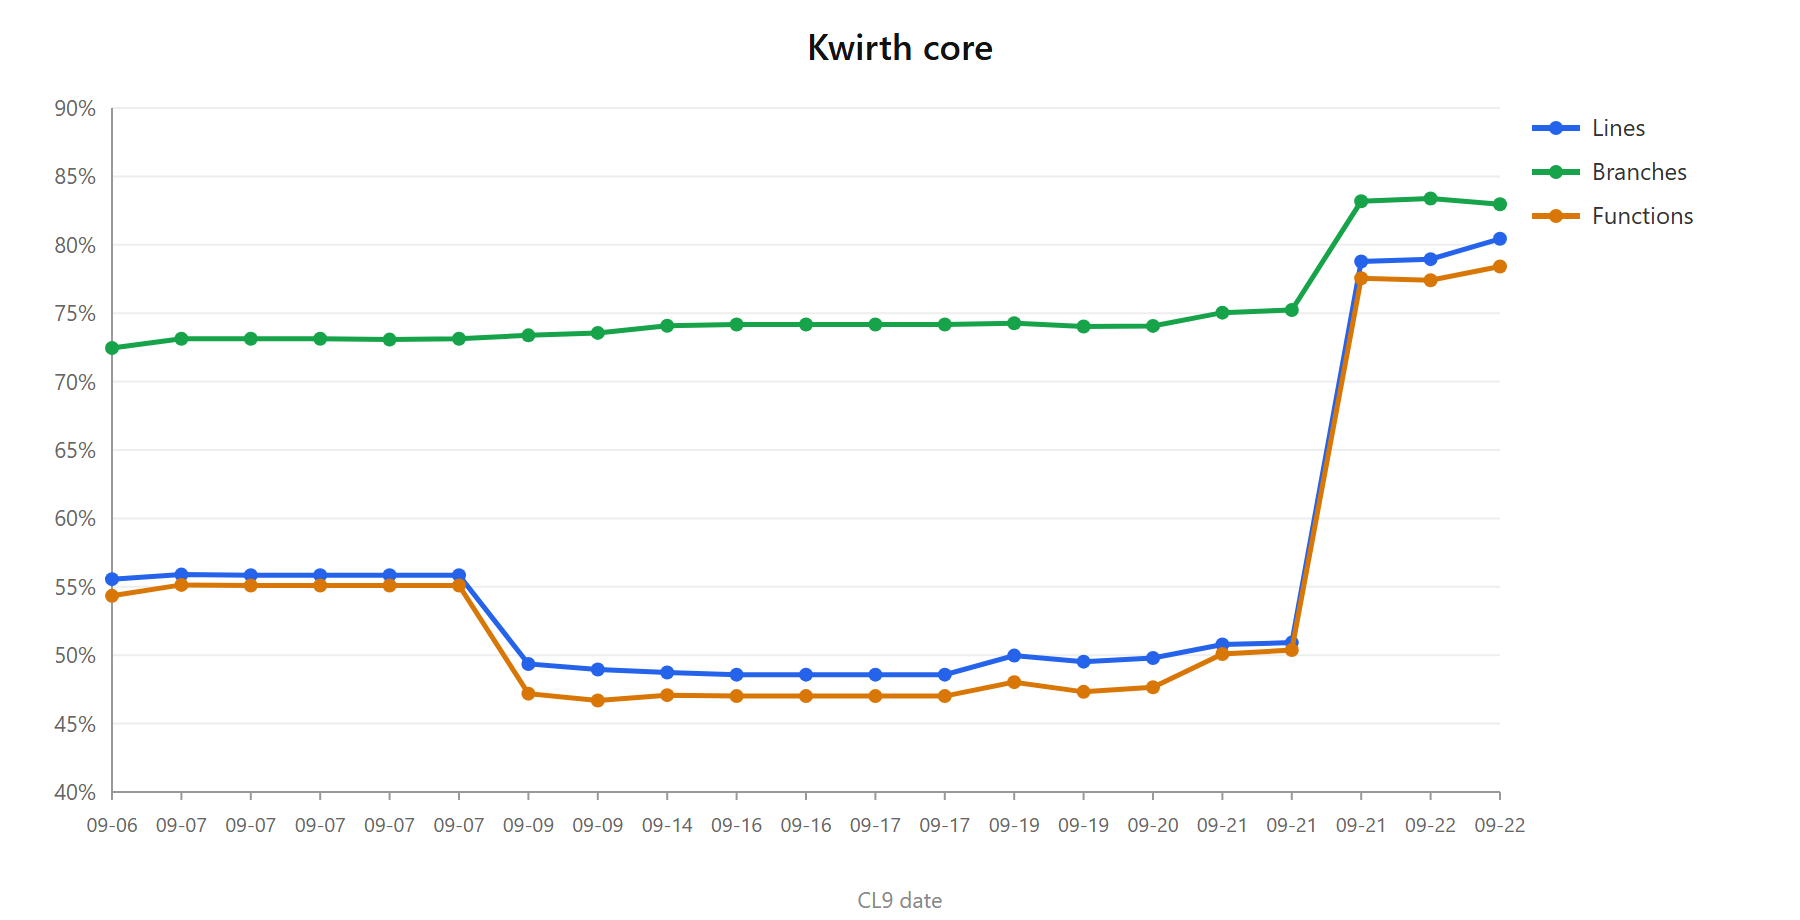
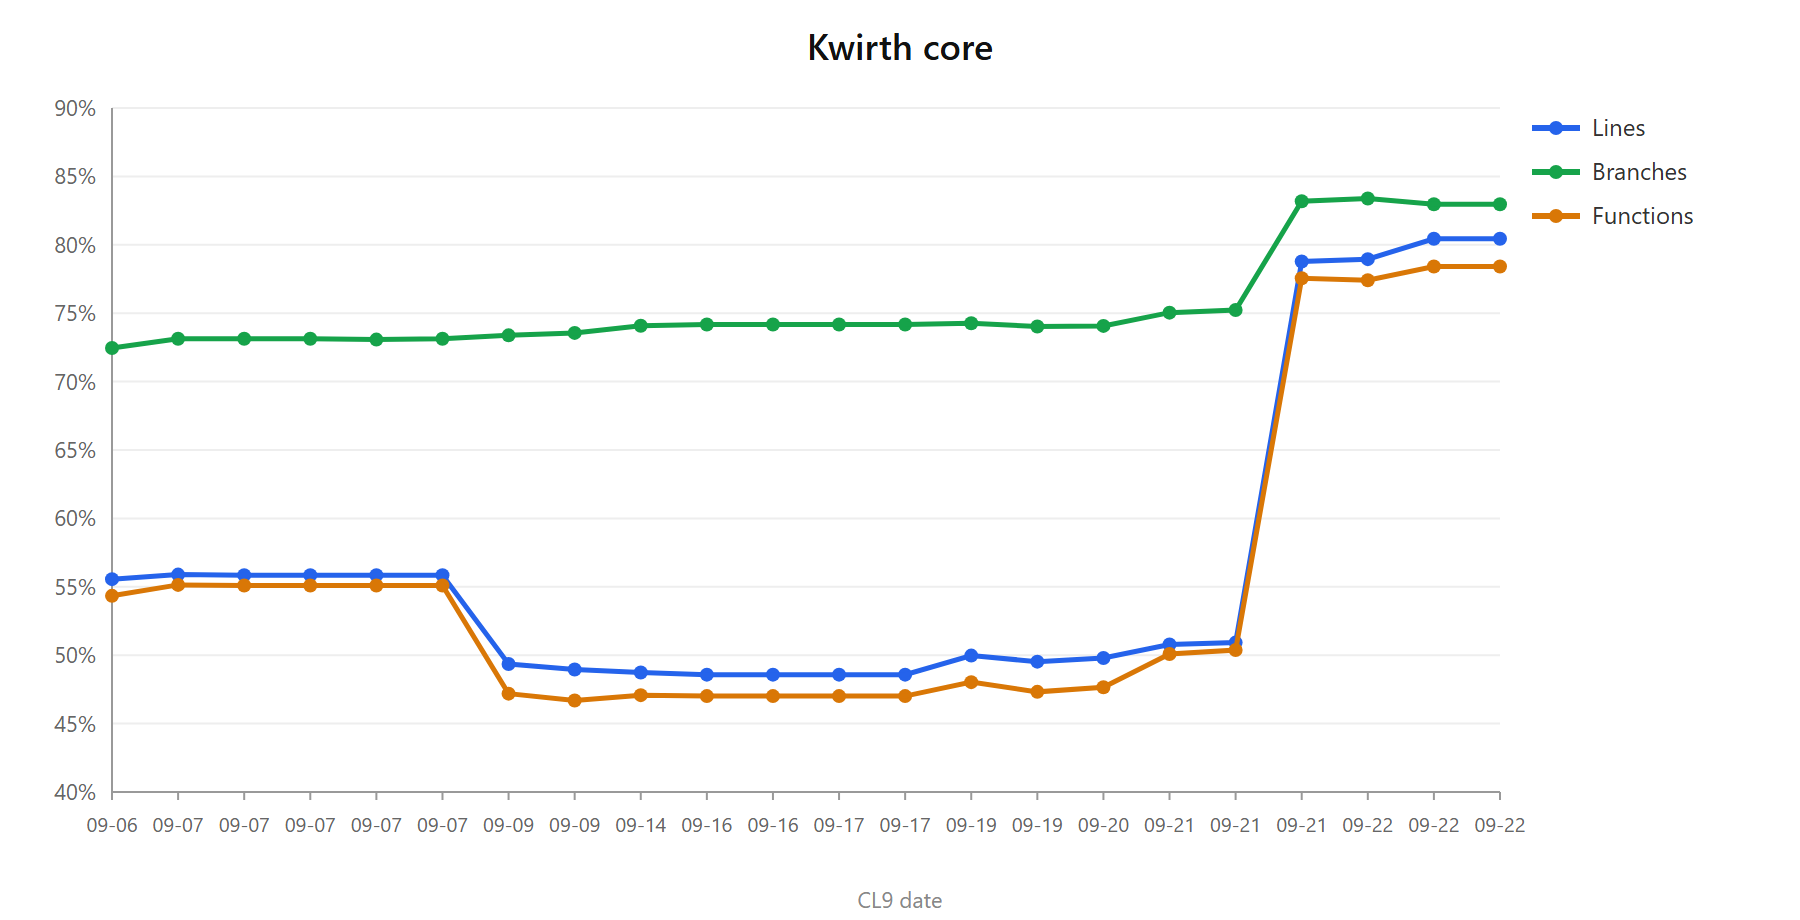
feat(senders): entrega por LOTES, y el origen dentro del mensaje
Primer stream de la cadena Fluent Bit -> kwirth -> destino (PRD y PLAN en el privado).

`send` entrega un mensaje por llamada con su propio await: perfecto para un aviso, inviable para un
caudal de log —un round trip por linea— cuando los destinos que se comen volumen aceptan arrays y
COBRAN POR PETICION.

  · sendBatch?() OPCIONAL en ISenderAccess (kwirth-common 0.5.54) y en ISender
    (kwirth-common-back 0.5.48), con un await por LOTE: la promesa sigue significando "estas N
    lineas entregadas".
  · SenderManager.sendBatch() lo reparte: una llamada a quien lo implemente, y entrega de UNO EN UNO
    a quien no. Esa compatibilidad es lo que permite que el contrato sea opcional sin romper a
    ningun sender existente.

Y el ORIGEN viaja en el mensaje: ISenderMessageOrigin (cluster, namespace, pod, container, source,
service, timestamp) como campo propio, no dentro de 'metadata' —que es JSON libre y cuyo acuerdo
tacito se rompe en cuanto hay dos senders—. Un destino solo puede etiquetar lo que le llega
etiquetado: una linea que llega a Datadog sin su namespace no se puede filtrar por nada.

+8 tests: el lote llega entero en una llamada, el orden se respeta en el camino de compatibilidad,
el origen llega intacto, un fallo NO sube al llamante (el reenvio no puede tumbar a quien produce
el log) y una linea que falla no cancela las siguientes. 426 en total.

Sin e2e a proposito: es contrato sin consumidor —nadie llama a sendBatch hasta el S3— y no tiene UI.

diff --git a/back/tests/tools/senderBatch.test.ts b/back/tests/tools/senderBatch.test.ts
@@ -1,0 +1,157 @@
+import { test } from 'node:test'
+import assert from 'node:assert/strict'
+import { SenderManager } from '../../src/tools/SenderManager'
+import { IConfigMaps } from '../../src/tools/IConfigMap'
+import { ISender, ISenderMessage } from '@kwirthmagnify/kwirth-common-back'
+
+/*
+    Entrega por LOTES.
+
+    `send` es un mensaje por llamada con su propio await, y eso sirve para un aviso —"se ha caido un
+    pod"— pero no para un caudal de log: un await por linea convierte el reenvio en una fila de idas y
+    venidas a la red, y las APIs de los destinos (Datadog, Elastic, Loki) aceptan arrays y cobran por
+    peticion.
+
+    Lo que fijan estos tests es el contrato que hace que eso sea posible SIN romper a nadie:
+
+      · quien implementa `sendBatch` recibe el lote entero en UNA llamada;
+      · quien NO lo implementa sigue recibiendo mensajes de uno en uno, en orden;
+      · y un fallo no se lleva por delante lo que queda ni sube al llamante como excepcion — el reenvio
+        de log no puede tumbar al que lo produce.
+*/
+
+const memConfigMaps = (): IConfigMaps => ({
+    read: (async (_name: string, def?: unknown) => def) as IConfigMaps['read'],
+    write: (async () => {}) as IConfigMaps['write'],
+    writeKey: async () => {},
+    readAllKeys: async () => ({})
+})
+
+interface IFakeSenderOptions {
+    // implementa sendBatch (el caso bueno) o solo send (el caso de compatibilidad)
+    batch?: boolean
+    // el nombre de config que dice tener
+    config?: string
+    throwOnBatch?: boolean
+    // falla al enviar este cuerpo concreto, para probar que no corta el resto
+    throwOnBody?: string
+}
+
+interface IFakeSender {
+    sender: ISender
+    batches: ISenderMessage[][]
+    singles: ISenderMessage[]
+}
+
+const fakeSender = (id: string, options: IFakeSenderOptions = {}): IFakeSender => {
+    const batches: ISenderMessage[][] = []
+    const singles: ISenderMessage[] = []
+    const configName = options.config ?? 'default'
+    const sender: Record<string, unknown> = {
+        id,
+        addConfig: () => {},
+        removeConfig: () => {},
+        hasConfig: (name: string) => name === configName,
+        getConfigNames: () => [configName],
+        startSender: async () => {},
+        stopSender: async () => {},
+        send: async (_c: string, message: ISenderMessage) => {
+            if (options.throwOnBody !== undefined && message.body === options.throwOnBody) throw new Error('boom single')
+            singles.push(message)
+        }
+    }
+    if (options.batch) {
+        sender.sendBatch = async (_c: string, messages: ISenderMessage[]) => {
+            if (options.throwOnBatch) throw new Error('boom batch')
+            batches.push(messages)
+        }
+    }
+    return { sender: sender as unknown as ISender, batches, singles }
+}
+
+const withSender = async (fake: IFakeSender): Promise<SenderManager> => {
+    const manager = new SenderManager(memConfigMaps())
+    await manager.init()
+    // se inyecta en el registro de instancias, que es de donde sale getSender()
+    ;(manager as unknown as { instances: Map<string, ISender> }).instances.set(fake.sender.id, fake.sender)
+    return manager
+}
+
+const linea = (body: string): ISenderMessage => ({ body })
+
+test('quien implementa sendBatch recibe el lote ENTERO en una sola llamada', async () => {
+    const fake = fakeSender('datadog', { batch: true })
+    const manager = await withSender(fake)
+
+    await manager.sendBatch('datadog', 'default', [linea('a'), linea('b'), linea('c')])
+
+    assert.equal(fake.batches.length, 1, 'una llamada, no tres')
+    assert.deepEqual(fake.batches[0].map(m => m.body), ['a', 'b', 'c'])
+    assert.equal(fake.singles.length, 0, 'y no se usa el camino de uno en uno')
+})
+
+test('quien NO lo implementa sigue recibiendo mensajes de uno en uno, en orden', async () => {
+    const fake = fakeSender('console', { batch: false })
+    const manager = await withSender(fake)
+
+    await manager.sendBatch('console', 'default', [linea('a'), linea('b')])
+
+    assert.deepEqual(fake.singles.map(m => m.body), ['a', 'b'], 'el orden es parte del contrato de un log')
+})
+
+test('un lote vacio no llama a nada', async () => {
+    const fake = fakeSender('datadog', { batch: true })
+    const manager = await withSender(fake)
+
+    await manager.sendBatch('datadog', 'default', [])
+
+    assert.equal(fake.batches.length, 0)
+    assert.equal(fake.singles.length, 0)
+})
+
+test('el origen de cada linea llega intacto al sender: sin el, el destino no puede etiquetar', async () => {
+    const fake = fakeSender('datadog', { batch: true })
+    const manager = await withSender(fake)
+
+    await manager.sendBatch('datadog', 'default', [{
+        body: 'connection refused',
+        origin: { cluster: 'k3d', namespace: 'ns-a', pod: 'pod-a', container: 'c1', source: 'fluentbit' }
+    }])
+
+    assert.deepEqual(fake.batches[0][0].origin, {
+        cluster: 'k3d', namespace: 'ns-a', pod: 'pod-a', container: 'c1', source: 'fluentbit'
+    })
+})
+
+test('si el sender revienta con el lote, no sube al llamante', async () => {
+    const fake = fakeSender('datadog', { batch: true, throwOnBatch: true })
+    const manager = await withSender(fake)
+
+    // el reenvio de log no puede tumbar a quien lo produce
+    await assert.doesNotReject(() => manager.sendBatch('datadog', 'default', [linea('a')]))
+})
+
+test('en el camino de uno en uno, una linea que falla no cancela las siguientes', async () => {
+    const fake = fakeSender('console', { batch: false, throwOnBody: 'b' })
+    const manager = await withSender(fake)
+
+    await manager.sendBatch('console', 'default', [linea('a'), linea('b'), linea('c')])
+
+    assert.deepEqual(fake.singles.map(m => m.body), ['a', 'c'], 'se entrega lo que se puede')
+})
+
+test('un sender que no existe descarta el lote sin lanzar', async () => {
+    const manager = new SenderManager(memConfigMaps())
+    await manager.init()
+
+    await assert.doesNotReject(() => manager.sendBatch('no-existe', 'default', [linea('a')]))
+})
+
+test('una config que el sender no tiene descarta el lote sin lanzar', async () => {
+    const fake = fakeSender('datadog', { batch: true, config: 'prod' })
+    const manager = await withSender(fake)
+
+    await manager.sendBatch('datadog', 'la-que-no-es', [linea('a')])
+
+    assert.equal(fake.batches.length, 0)
+})

diff --git a/common/src/Sender.ts b/common/src/Sender.ts
@@ -1,9 +1,37 @@
+/*
+    De DONDE viene una linea. Viaja en el mensaje, y no lo inventa el sender: un destino solo puede
+    etiquetar lo que le llega etiquetado. Si esto se pierde por el camino, el log acaba en el destino sin
+    poder filtrarse por nada — es decir, inutil.
+
+    Todo opcional porque no todo mensaje viene de un pod: un aviso de un canal, un evento de negocio o una
+    linea que entra por un recolector externo tienen orígenes distintos, y cada uno rellena lo que sabe.
+*/
+export interface ISenderMessageOrigin {
+    /** cluster del que salio, cuando hay mas de uno en juego */
+    cluster?: string
+    namespace?: string
+    pod?: string
+    container?: string
+    /** por donde ENTRO en Kwirth: el id del provider o del canal (p.ej. 'fluentbit', 'log') */
+    source?: string
+    /** nombre del servicio o del controlador, cuando se conoce */
+    service?: string
+    /** marca de tiempo original de la linea, si la traia; en ms desde epoch */
+    timestamp?: number
+}
+
 export interface ISenderMessage {
     subject?: string
     body: string
     to?: string | string[]
     level?: 'debug' | 'info' | 'warning' | 'error'
     metadata?: Record<string, unknown>
+    /*
+        Origen de la linea. Se añade aparte de 'metadata' —que es JSON libre— porque esto SI es contrato:
+        el destino necesita saber donde mirar para etiquetar, y un acuerdo tacito dentro de metadata se
+        rompe en cuanto haya dos senders.
+    */
+    origin?: ISenderMessageOrigin
 }
 
 export interface ISenderConfig {
@@ -25,6 +53,16 @@ export interface ISenderResult {
 
 export interface ISenderAccess {
     send(senderId: string, configName: string, message: ISenderMessage): Promise<ISenderResult | void>
+    /*
+        Entrega un LOTE. Existe porque 'send' es un mensaje por llamada con su propio await, y eso sirve
+        para un aviso y no para un caudal de log: un await por linea convierte el reenvio en una fila de
+        idas y venidas a la red.
+
+        Un await por LOTE mantiene el significado de la promesa —"estas N lineas entregadas"— que es lo que
+        permite al llamante contar lo enviado y reaccionar a lo que falle. Si el sender no lo implementa,
+        el core lo entrega mensaje a mensaje: nadie tiene que cambiar para seguir funcionando.
+    */
+    sendBatch?(senderId: string, configName: string, messages: ISenderMessage[]): Promise<ISenderResult | void>
     // OPCIONAL: consulta el estado actual de una entidad externa creada por el sender (p.ej. un ticket de
     // ticketing → su status). Contraparte de pull del webhook (push): permite RECONCILIAR estados perdidos
     // (core caído / sin suscriptor cuando llegó el callback). Devuelve undefined si el sender no lo soporta,

diff --git a/back/src/tools/SenderManager.ts b/back/src/tools/SenderManager.ts
@@ -586,6 +586,42 @@ export class SenderManager implements ISenderAccess {
         }
     }
 
+    /*
+        Entrega un LOTE por una sola llamada al sender.
+
+        Un `send` por linea convierte el reenvio de log en una fila de idas y venidas a la red, y las APIs
+        de los destinos (Datadog, Elastic, Loki) aceptan arrays y cobran por peticion. Con el lote, el
+        `await` sigue significando "estas N lineas entregadas", que es lo que permite al llamante contar lo
+        enviado.
+
+        ⚠ Si el sender NO implementa sendBatch se entrega mensaje a mensaje, en orden. Es mas lento pero
+        correcto, y es lo que permite que el contrato sea opcional: ningun sender existente se rompe.
+    */
+    async sendBatch(senderId: string, configName: string, messages: ISenderMessage[]): Promise<ISenderResult | void> {
+        if (messages.length === 0) return
+        const sender = this.getSender(senderId)
+        if (!sender) {
+            logError(ELogComponent.CORE, `Sender '${senderId}' not found — ${messages.length} message(s) dropped`)
+            return
+        }
+        if (!sender.hasConfig(configName)) {
+            logError(ELogComponent.CORE, `Sender '${senderId}' has no config '${configName}' — ${messages.length} message(s) dropped`)
+            return
+        }
+        try {
+            if (typeof sender.sendBatch === 'function') return await sender.sendBatch(configName, messages)
+            // Sin soporte de lote: uno a uno, y el primer fallo NO cancela el resto — cada linea se
+            // entrega por su cuenta, igual que si el llamante hubiera hecho N sends.
+            for (const message of messages) {
+                try { await sender.send(configName, message) }
+                catch (err) { logError(ELogComponent.CORE, `Sender '${senderId}' send error (within batch): ${err}`) }
+            }
+        }
+        catch (err) {
+            logError(ELogComponent.CORE, `Sender '${senderId}' sendBatch error: ${err}`)
+        }
+    }
+
     // H3b-recon: consulta el estado actual de una entidad externa (p.ej. un ticket) vía el sender. Undefined si
     // el sender no lo soporta, no existe, no tiene la config, o falla. Contraparte de pull del webhook (push).
     async fetchStatus(senderId: string, configName: string, externalId: string): Promise<string | undefined> {

diff --git a/common-back/src/ISender.ts b/common-back/src/ISender.ts
@@ -22,6 +22,13 @@ export interface ISender extends IExtension {
     getConfigSchema?(): ISenderFieldDef[]
     getNodeMeta?(): ISenderNodeMeta
     send(configName: string, message: ISenderMessage): Promise<ISenderResult | void>
+    /*
+        OPCIONAL: entrega un LOTE de una vez. Para un destino de log (Datadog, Elastic, Loki) mandar linea
+        a linea es inviable: sus APIs aceptan arrays y cobran por peticion. Quien lo implemente recibe el
+        lote entero y decide como partirlo; quien no, sigue recibiendo mensajes de uno en uno y no se
+        entera de que esto existe.
+    */
+    sendBatch?(configName: string, messages: ISenderMessage[]): Promise<ISenderResult | void>
     // OPCIONAL (H3b-recon): consulta el estado actual de una entidad externa creada por este sender (p.ej. un
     // ticket → su status). Permite reconciliar estados perdidos. Undefined si no aplica / no se pudo resolver.
     fetchStatus?(configName: string, externalId: string): Promise<string | undefined>

diff --git a/docs/qa/test-metrics-history.md b/docs/qa/test-metrics-history.md
@@ -38,6 +38,7 @@
 
 | Fecha | Cierre | Harness | Cobertura (líneas / ramas / funcs) | e2e | Notas |
 |---|---|---|---|---|---|
+| 2026-09-22 | Entrega por LOTES y el origen dentro del mensaje (S1 del reenvío de log) | **426** ✅ | 80.44 % / 82.96 % / 78.41 % | 37 specs · 121 casos | Primer stream de la cadena Fluent Bit → kwirth → destino. `send` entrega **un mensaje por llamada** con su propio `await`: perfecto para un aviso, inviable para un caudal de log —un round trip por línea— cuando los destinos que se comen volumen aceptan arrays y **cobran por petición**. Se añade `sendBatch?()` **opcional** en `ISenderAccess` (`kwirth-common@0.5.54`) y en `ISender` (`kwirth-common-back@0.5.48`), con un `await` por **lote**, y `SenderManager.sendBatch()` lo reparte: una llamada a quien lo implemente, **entrega de uno en uno a quien no** — esa compatibilidad es lo que hace que el contrato pueda ser opcional sin romper a ningún sender existente. Y el **origen viaja en el mensaje**: `ISenderMessageOrigin` (cluster, namespace, pod, container, source, service, timestamp) como **campo propio**, no dentro de `metadata`, que es JSON libre — un acuerdo tácito ahí se rompe en cuanto hay dos senders, y un destino solo puede etiquetar lo que le llega etiquetado. **+8 tests**: el lote llega entero en una llamada, el orden se respeta en el camino de compatibilidad, el origen llega intacto, un fallo **no sube al llamante** (el reenvío no puede tumbar a quien produce el log) y una línea que falla no cancela las siguientes. ℹ Sin e2e: es contrato sin consumidor todavía —nadie llama a `sendBatch` hasta el S3— y no tiene UI; su QA fue de no regresión de los senders vivos. ⚠ Lección de secuencia: se publicaron los contratos y se siguió tocando el core mientras npm propagaba, dejando el back del usuario sin compilar. Publicar, **esperar a poder instalar**, y entonces tocar el core. |
 | 2026-09-22 | Una extensión montada desde dev salía DUPLICADA en tres managers | **426** ✅ | 80.44 % / 82.96 % / 78.41 % | 37 specs · 122 casos | **`listInstalled()` concatenaba el índice de instalados con los metadatos de dev sin filtrar los que se pisan.** Una extensión registrada en `kwirth-dev.json` **sustituye** a la instalada con su mismo id, no se suma a ella — y en un entorno de desarrollo, donde lo normal es tenerla instalada Y además montada desde su `dist`, la misma salía **dos veces**. El duplicado viajaba tal cual por `/core/senders`, `/core/providers` y `/core/webhooks` a todos sus consumidores: los gestores del front y cualquier extensión que liste. `plugin`, `theme`, `login`, `homepage` y `aitoolset` ya llevaban el filtro; **sender, provider y webhook se habían quedado atrás**, y ahora usan el mismo patrón. Lo cazó el **e2e del plugin sender-debug**, cuyo desplegable pintaba `console` repetido: el plugin se defendía deduplicando, pero el defecto estaba aquí. **+8 tests** que montan un workspace de dev de verdad (un `kwirth-dev.json` y un `dist` por extensión) y recorren el camino que hace el core al arrancar, en vez de falsear los mapas de dev a mano; se comprobó que **6 de los 8 se ponen rojos sin el arreglo**. **+1 caso e2e** en el gestor de senders, sobre la respuesta del endpoint y **no** sobre las tarjetas: el gestor pinta instalados *y* disponibles del marketplace, así que un sender publicado sale dos veces con toda la razón — contar tarjetas daba un rojo que no decía nada del bug. ⚠ El harness incluye 8 tests de `senderBatch.test.ts`, trabajo en curso sin commitear ajeno a este cierre. |
 | 2026-09-22 | Probar la configuración de una extensión desde el formulario, y campos de varios valores | **404** ✅ | 78.95 % / 83.38 % / 77.41 % | 37 specs · 121 casos | **Un usuario metía credenciales y no sabía si valían hasta que la extensión fallaba en silencio.** Excubitor lo resolvió a mano con su *Test connection* para los conectores cloud; ahora lo hace el core una vez para cualquier provider: el formulario genérico saca un botón **TEST** si el provider expone `/test` en su `configRouter`. La detección **no se declara**, se mira: `ProviderApi` inspecciona las rutas del router —el endpoint es la única fuente que no puede mentir— así que un provider que lo añada mañana hereda el botón sin tocar su `package.json` ni su build. Ya lo tienen dos: `azure` y `sugarless`. ⚠ El botón manda el **borrador** por POST y **no guarda**: probar lo que tienes escrito es lo útil, pero guardarlo por tu cuenta puede dejar la configuración peor de como estaba si el formulario se cargó a medias (una extensión que solo acepte GET prueba lo guardado, y entonces sí se avisa de los cambios pendientes). **Y campos de varios valores**: `multiselect` en `IConfigFieldDef` (`kwirth-common@0.5.53`), pintado como desplegable múltiple **con checkbox** — sin el check, un multiselect parece de selección única, y así se quedó en la primera pasada. El valor se guarda como una cadena con comas: el contrato no tiene tipo lista y dárselo obligaría a migrar los 64 campos ya publicados. `azure` lo usa para ofrecer las regiones reales de la suscripción. **+5 tests** de la detección (incluido que `/testing` o `/test/algo` no cuentan) y **+1 spec e2e** con 2 casos, que comprueba el botón y los checkbox sin pulsar TEST — probar de verdad sale a la red del proveedor. ℹ `kwirth-common@0.5.53` trae además `previousLogLines`, el ajuste del log del contenedor anterior: el tipo ya está, **consumirlo sigue pendiente** (S2 de su plan). |
 | 2026-09-21 | La cobertura del core estaba MAL MEDIDA (y dos managers sin un solo test) | **399** ✅ | 78.78 % / 83.18 % / 77.55 % | 34 specs · 109 casos | 🔴 **El 50 % que veníamos apuntando era un artefacto de medición.** El runner del back bundleaba **un fichero por test**, así que cada bundle arrastraba su **propia copia del `src`** y el informe los trataba como ficheros distintos: hacía la **media** de esas copias en vez de la **unión**, contando como no cubierto todo el `src` que ese test concreto no toca. Encima el desglose listaba `tests/.out/*.test.mjs`, no `src/`, que es la pista que lo delató. Con el entry único —el mismo arreglo que ya llevaban montag, agora y provider-debug— la misma suite, **sin un test nuevo**, pasa de 50.92 a **79.23 %**. El salto es de medición, no de trabajo. ⚠ El número incluye el código de los propios tests dentro del bundle, así que está algo por encima de la cobertura pura de `src/`; es el mismo criterio que usan los plugins, y por eso es comparable con ellos. **Y lo que sí es trabajo**: `ThemeManager` y `HomepageManager` no tenían **ningún** test —42 de los 83 ficheros del `src` siguen sin aparecer en ninguno— y ahora llevan **11**, que fijan lo que se aprendió a base de sustos: las dos formas de tgz (raíz y `package/`) instalan igual, un front que no cabe en el ConfigMap no se guarda ahí y se recupera del origen con caché, y esa caché se invalida al instalar y al desinstalar. De paso se alinearon con los otros cuatro managers: ya borraban al desinstalar, pero **no al instalar**, que es justo el caso de actualizar. ℹ El global baja de 79.23 a 78.78 porque esas ~490 líneas **entran ahora en el denominador**: antes no salían en el informe porque ningún test las importaba. Un test propio cazó un error mío: el front 'enorme' era texto periódico, gzip lo dejaba en nada y cabía en el ConfigMap; hay que generarlo incompresible (`randomBytes`). |

diff --git a/docs/0.6.31/guide/extensions/senders/index.md b/docs/0.6.31/guide/extensions/senders/index.md
@@ -25,6 +25,26 @@ These deliver a message to a real destination:
 | **[email-resend](email-resend)** | **Email** via the **Resend** API. | API key, from, to. |
 | **[teams](teams)** | A **Microsoft Teams** channel. | Incoming webhook URL. |
 
+## Delivering in batches
+
+A sender normally receives **one message per call**: kwirth awaits each delivery, and that is what makes
+the promise meaningful — *this alert reached its destination*. For an alert that is exactly right.
+
+For a **stream of log lines** it is not: one round trip per line turns forwarding into a queue, and the
+destinations that take log volume (Datadog, Elastic, Loki) accept arrays and charge per request. So a
+sender may also declare that it knows how to take a **batch**, and then kwirth hands it the whole lot in
+a single call and awaits **once per batch** — the promise still means "these N lines delivered".
+
+It is **optional on purpose**. A sender that does not declare it keeps receiving messages one at a time,
+in order, and needs no changes: kwirth delivers them itself, and a line that fails does not cancel the
+ones behind it.
+
+Messages also carry **where they came from** — cluster, namespace, pod, container, and which provider or
+channel they entered through. That travels **with the message**, because a destination can only tag what
+arrives tagged: a log line that reaches Datadog without its namespace cannot be filtered by anything, and
+is effectively useless. It is a field of its own rather than free-form metadata, so every sender finds it
+in the same place.
+
 ## Pipeline senders
 
 These don't deliver on their own — they **compose or shape** the flow, then pass it to other senders:
